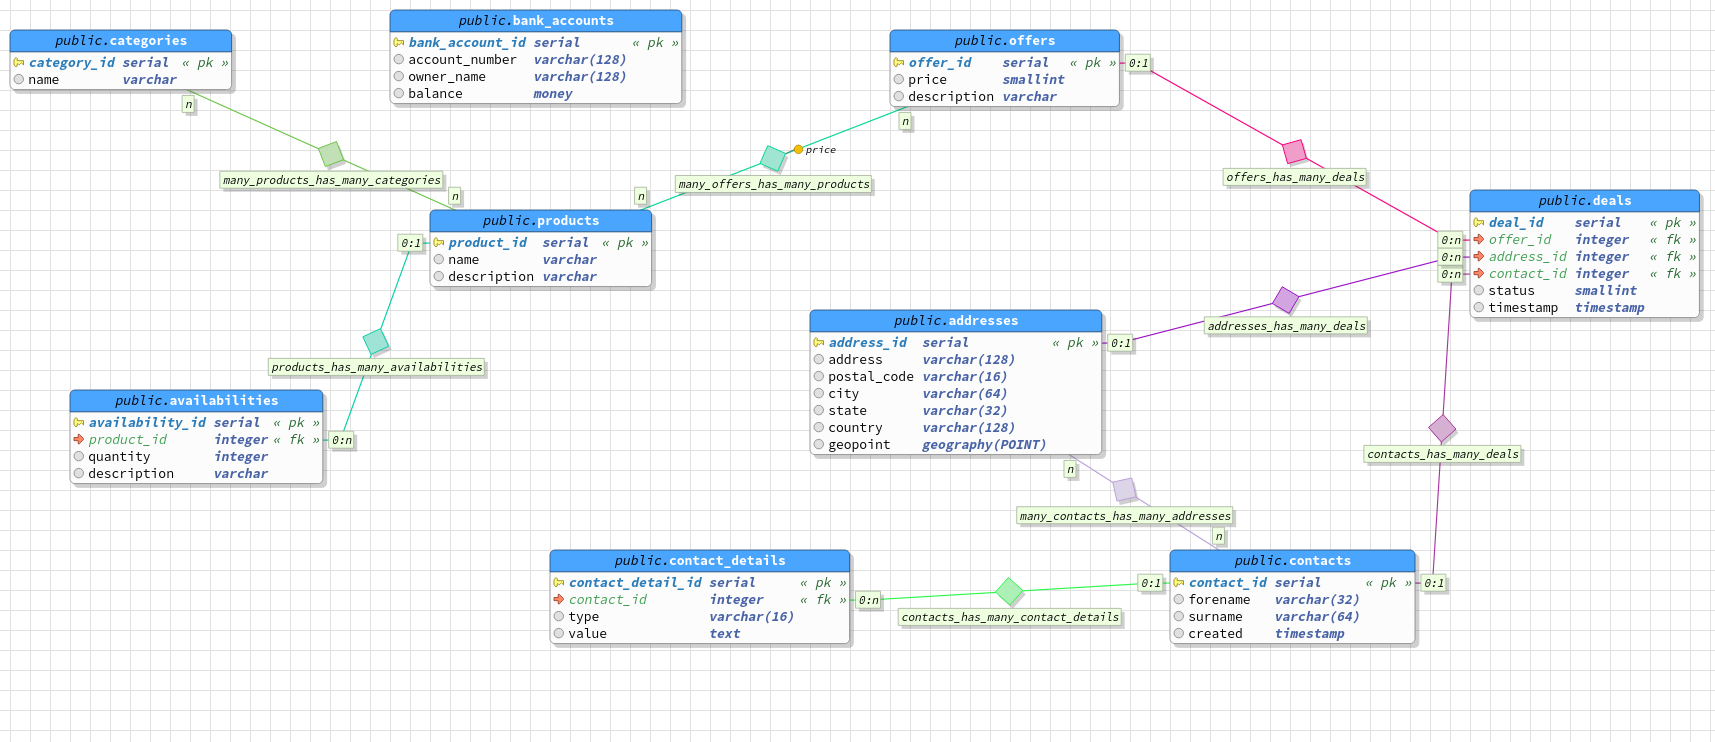
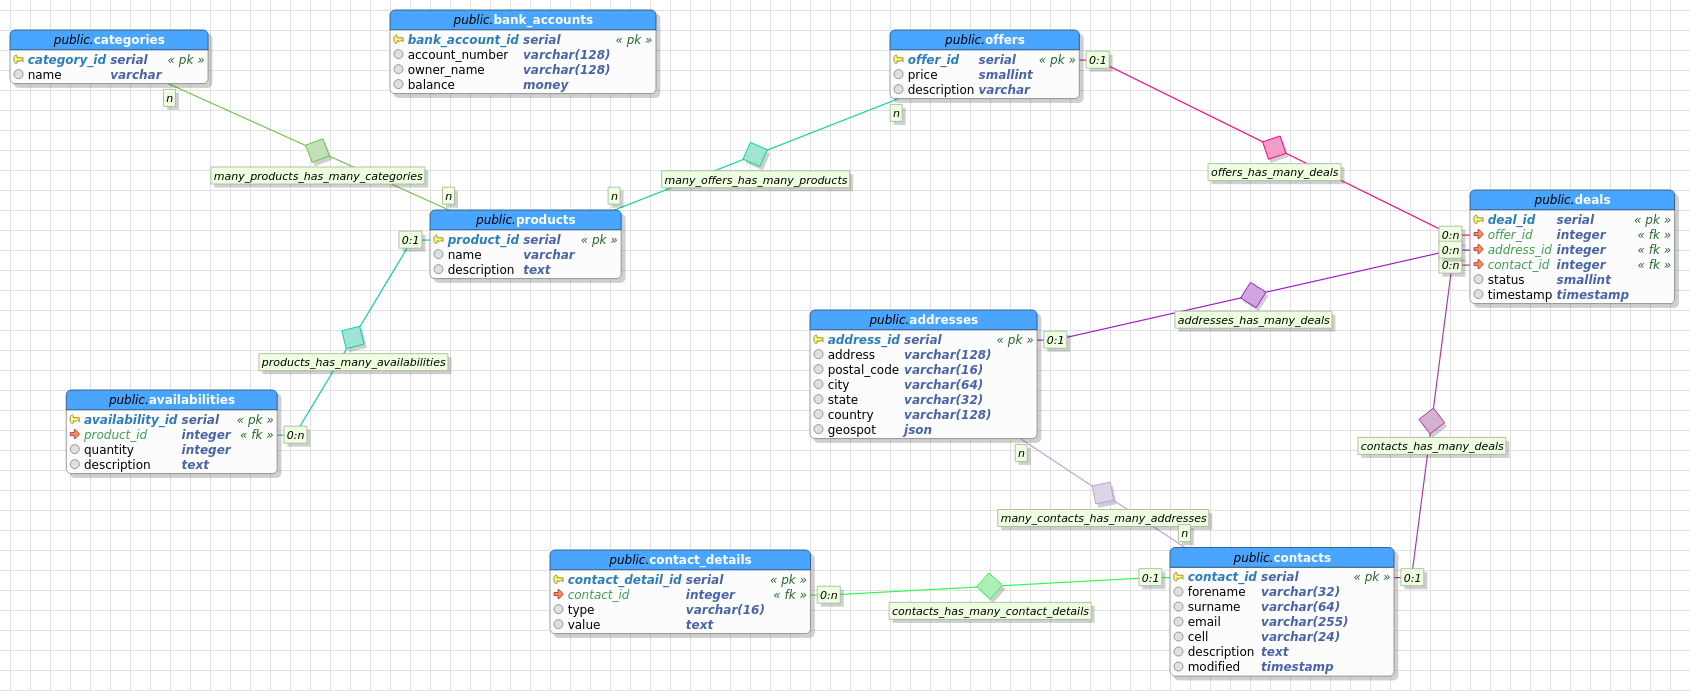
db changed to better fit the view

Changed region(s): [[0.0, 0.0, 1.0, 1.0]]

diff --git a/views/contacts.hbs.htm b/views/contacts.hbs.htm
@@ -110,9 +110,9 @@
           {{#each contacts~}}
             <tr>
               <td>{{forename}} {{surname}}</td>
-              <td>mail</td>
-              <td>tel</td>
-              <td>opis</td>
+              <td>{{email}}</td>
+              <td>{{cell}}</td>
+              <td>{{description}}</td>
               <td class="delete-mark"><div>&#10540;</div></td>
             </tr>
           {{/each~}}

diff --git a/models/contacts.rs b/models/contacts.rs
@@ -8,7 +8,10 @@ pub struct Contact {
 	pub contact_id: i32,
     pub forename: String,
     pub surname: String,
-    pub created: Timespec
+    pub email: String,
+    pub cell: String,
+    pub description: String,
+    pub modified: Timespec
 }
 
 #[derive(ToJson)]
@@ -24,10 +27,7 @@ impl Contact {
         let mut vec = Vec::new(); 
         let conn = req.db_conn();
         let stmt = conn.prepare(
-                "SELECT contact_id,\
-                        forename,\
-                        surname,\
-                        created FROM contacts"
+                "SELECT * FROM contacts"
             ).unwrap();
         let rows = stmt.query(&[]).unwrap();
         for row in rows {
@@ -35,7 +35,10 @@ impl Contact {
                 contact_id: row.get(0),
                 forename: row.get(1),
                 surname: row.get(2),
-                created: row.get(3)
+                email: row.get(3),
+                cell: row.get(4),
+                description: row.get(5),
+                modified: row.get(6)
             }); 
         }
         vec
